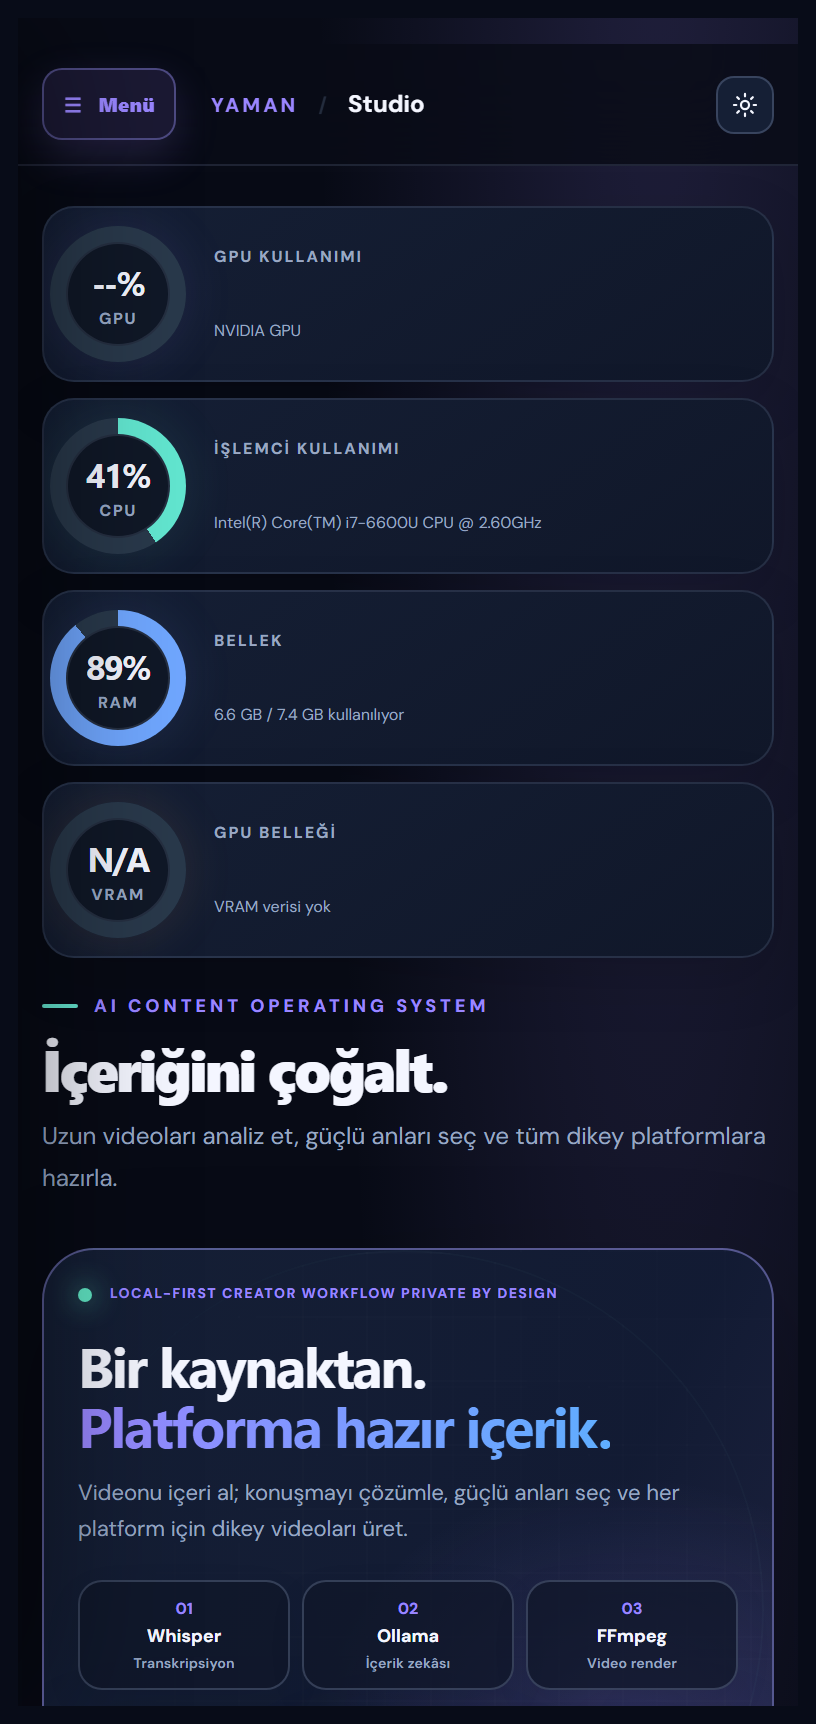
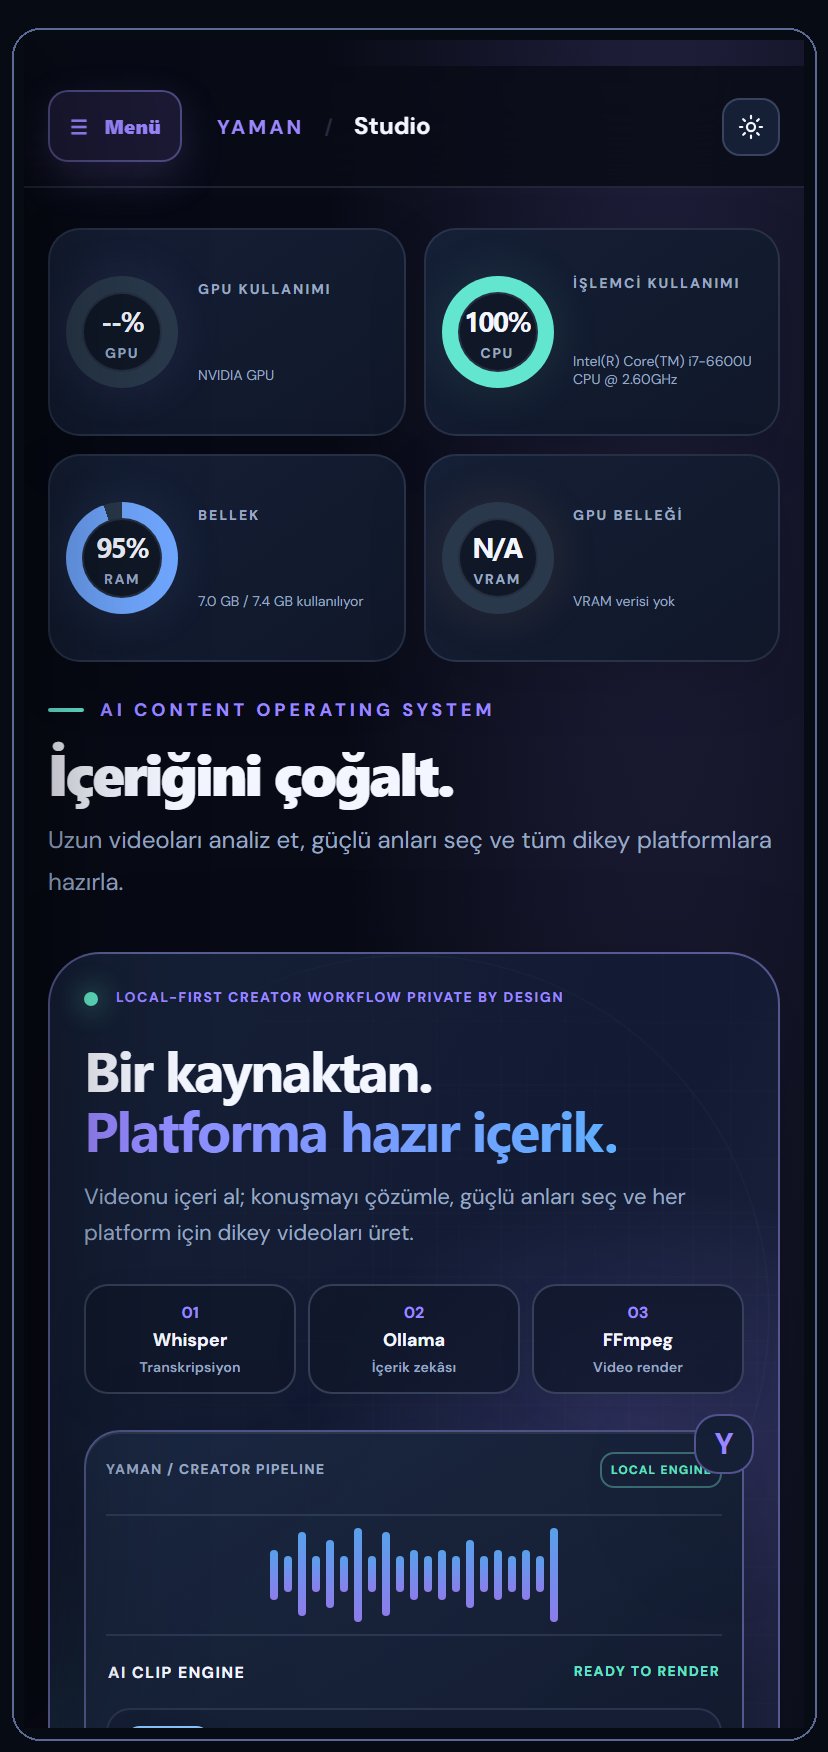
fix: make mobile creator studio responsive

diff --git a/web/style.css b/web/style.css
@@ -862,7 +862,7 @@ html[data-theme="ocean"] .pipeline>div,html[data-theme="ocean"] .agent-grid arti
  .breadcrumbs{flex:1}
 }
 
-/* v1.9.0 — premium Creator workflow hero */
+/* v1.8.0 — premium Creator workflow hero */
 .creator-hero{
  display:grid!important;grid-template-columns:minmax(0,1.15fr) minmax(300px,.85fr);
  align-items:center;gap:clamp(24px,4vw,60px);min-height:300px!important;
@@ -944,7 +944,7 @@ html[data-theme="ocean"] .pipeline>div,html[data-theme="ocean"] .agent-grid arti
  .theme-cycle svg{width:13px!important;height:13px!important;max-width:13px!important;max-height:13px!important}
 }
 
-/* v1.9.0 mobile fit refinement: no horizontal clipping at phone widths */
+/* v1.8.0 mobile fit refinement: no horizontal clipping at phone widths */
 @media(max-width:760px){
  html,body{width:100%;max-width:100%;overflow-x:hidden}
  .layout{width:100%;max-width:100%;overflow-x:hidden}
@@ -1028,4 +1028,36 @@ html[data-theme="ocean"] .pipeline>div,html[data-theme="ocean"] .agent-grid arti
  .system-monitor>.metric-card .metric-gauge{grid-column:1;grid-row:1/3}
  .system-monitor>.metric-card .metric-label,.system-monitor>.metric-card>small{grid-column:2;text-align:left!important}
  .hero-chips{grid-template-columns:repeat(3,minmax(0,1fr))!important}
+}
+
+/* v1.8.0: compact two-column system monitor on phones */
+@media(max-width:420px){
+ .system-monitor{grid-template-columns:repeat(2,minmax(0,1fr))!important;gap:9px!important}
+ .system-monitor>.metric-card{
+   display:grid!important;
+   grid-template-columns:58px minmax(0,1fr)!important;
+   grid-template-rows:auto auto!important;
+   align-items:center!important;
+   column-gap:8px!important;
+   row-gap:5px!important;
+   min-height:104px!important;
+   padding:10px 8px!important;
+ }
+ .system-monitor>.metric-card .metric-gauge{
+   grid-column:1!important;grid-row:1/3!important;
+   width:56px!important;height:56px!important;
+   align-self:center!important;
+ }
+ .system-monitor>.metric-card .metric-label{
+   grid-column:2!important;grid-row:1!important;
+   text-align:left!important;font-size:7px!important;
+   line-height:1.35!important;overflow-wrap:anywhere
+ }
+ .system-monitor>.metric-card>small{
+   grid-column:2!important;grid-row:2!important;
+   text-align:left!important;font-size:7px!important;
+   line-height:1.35!important;overflow-wrap:anywhere
+ }
+ .system-monitor .gauge-center strong{font-size:14px!important}
+ .system-monitor .gauge-center small{font-size:7px!important}
 }

diff --git a/web/index.html b/web/index.html
@@ -1,5 +1,5 @@
 <!doctype html><html lang="tr"><head><meta charset="UTF-8"><meta name="viewport" content="width=device-width,initial-scale=1"><meta name="theme-color" content="#080b16"><meta name="apple-mobile-web-app-capable" content="yes"><meta name="apple-mobile-web-app-status-bar-style" content="black-translucent"><meta name="apple-mobile-web-app-title" content="YAMAN STUDIO"><link rel="manifest" href="/assets/manifest.webmanifest"><link rel="apple-touch-icon" href="/assets/icons/apple-touch-icon.png"><meta name="description" content="YAMAN VIRAL STUDIO PRO — yerel AI destekli profesyonel video ve Shorts üretim stüdyosu."><link rel="icon" href="/assets/favicon.ico" sizes="any"><link rel="icon" type="image/svg+xml" href="/assets/favicon.svg"><link rel="icon" type="image/png" sizes="32x32" href="/assets/favicon-32.png"><link rel="preconnect" href="https://fonts.googleapis.com"><link rel="preconnect" href="https://fonts.gstatic.com" crossorigin><link href="https://fonts.googleapis.com/css2?family=DM+Sans:wght@400;500;600;700;800&display=swap" rel="stylesheet">
-<title>YAMAN VIRAL STUDIO PRO</title><link rel="stylesheet" href="/assets/sidebar-drawer.css?v=v180premium"><link rel="stylesheet" href="/assets/style.css?v=v180premium2"></head>
+<title>YAMAN VIRAL STUDIO PRO</title><link rel="stylesheet" href="/assets/sidebar-drawer.css?v=v180premium"><link rel="stylesheet" href="/assets/style.css?v=v180premium3"></head>
 <body><div class="layout">
 <aside><div class="brand"><div class="mark"><svg viewBox="0 0 48 48" aria-hidden="true"><path d="M9 9h10l5 11 5-11h10L24 39z" fill="currentColor"/><path d="M24 20 31 9h8L24 39z" fill="#17343b"/></svg></div><div class="brand-copy"><b>YAMAN</b><small>VIRAL STUDIO PRO</small></div></div>
 

diff --git a/web/sw.js b/web/sw.js
@@ -1,10 +1,10 @@
 
 /* YAMAN VIRAL STUDIO PRO — minimal app-shell service worker */
-const CACHE_NAME = "yaman-viral-studio-shell-v1.8.0-premium2";
+const CACHE_NAME = "yaman-viral-studio-shell-v1.8.0-premium3";
 const APP_SHELL = [
   "/",
   "/assets/manifest.webmanifest",
-  "/assets/style.css?v=v180premium2",
+  "/assets/style.css?v=v180premium3",
   "/assets/app.js?v=v180premium",
   "/assets/favicon.ico",
   "/assets/favicon.svg",

diff --git a/README.md b/README.md
@@ -77,7 +77,7 @@ Yerel içerik zekâsı için [Ollama](https://ollama.com/download/windows) kurun
 
 **MOBİL ÇALIŞMA ALANI**
 
-<p align="center"><img src="docs/assets/screenshot-live-mobile-framed.png" alt="YAMAN VIRAL STUDIO PRO v1.8.0 ? true 390px mobile viewport" width="390"></p>
+<p align="center"><img src="docs/assets/screenshot-live-mobile-framed.png" alt="YAMAN VIRAL STUDIO PRO v1.8.0 gerçek mobil görünümü, 390 piksel viewport" width="390"></p>
 
 Arayüz; daraltılabilir ikon menüsü, mobil açılır navigasyon, hızlı tema değiştirme ve üretim hattını öne çıkaran ana sayfa içerir.
 
